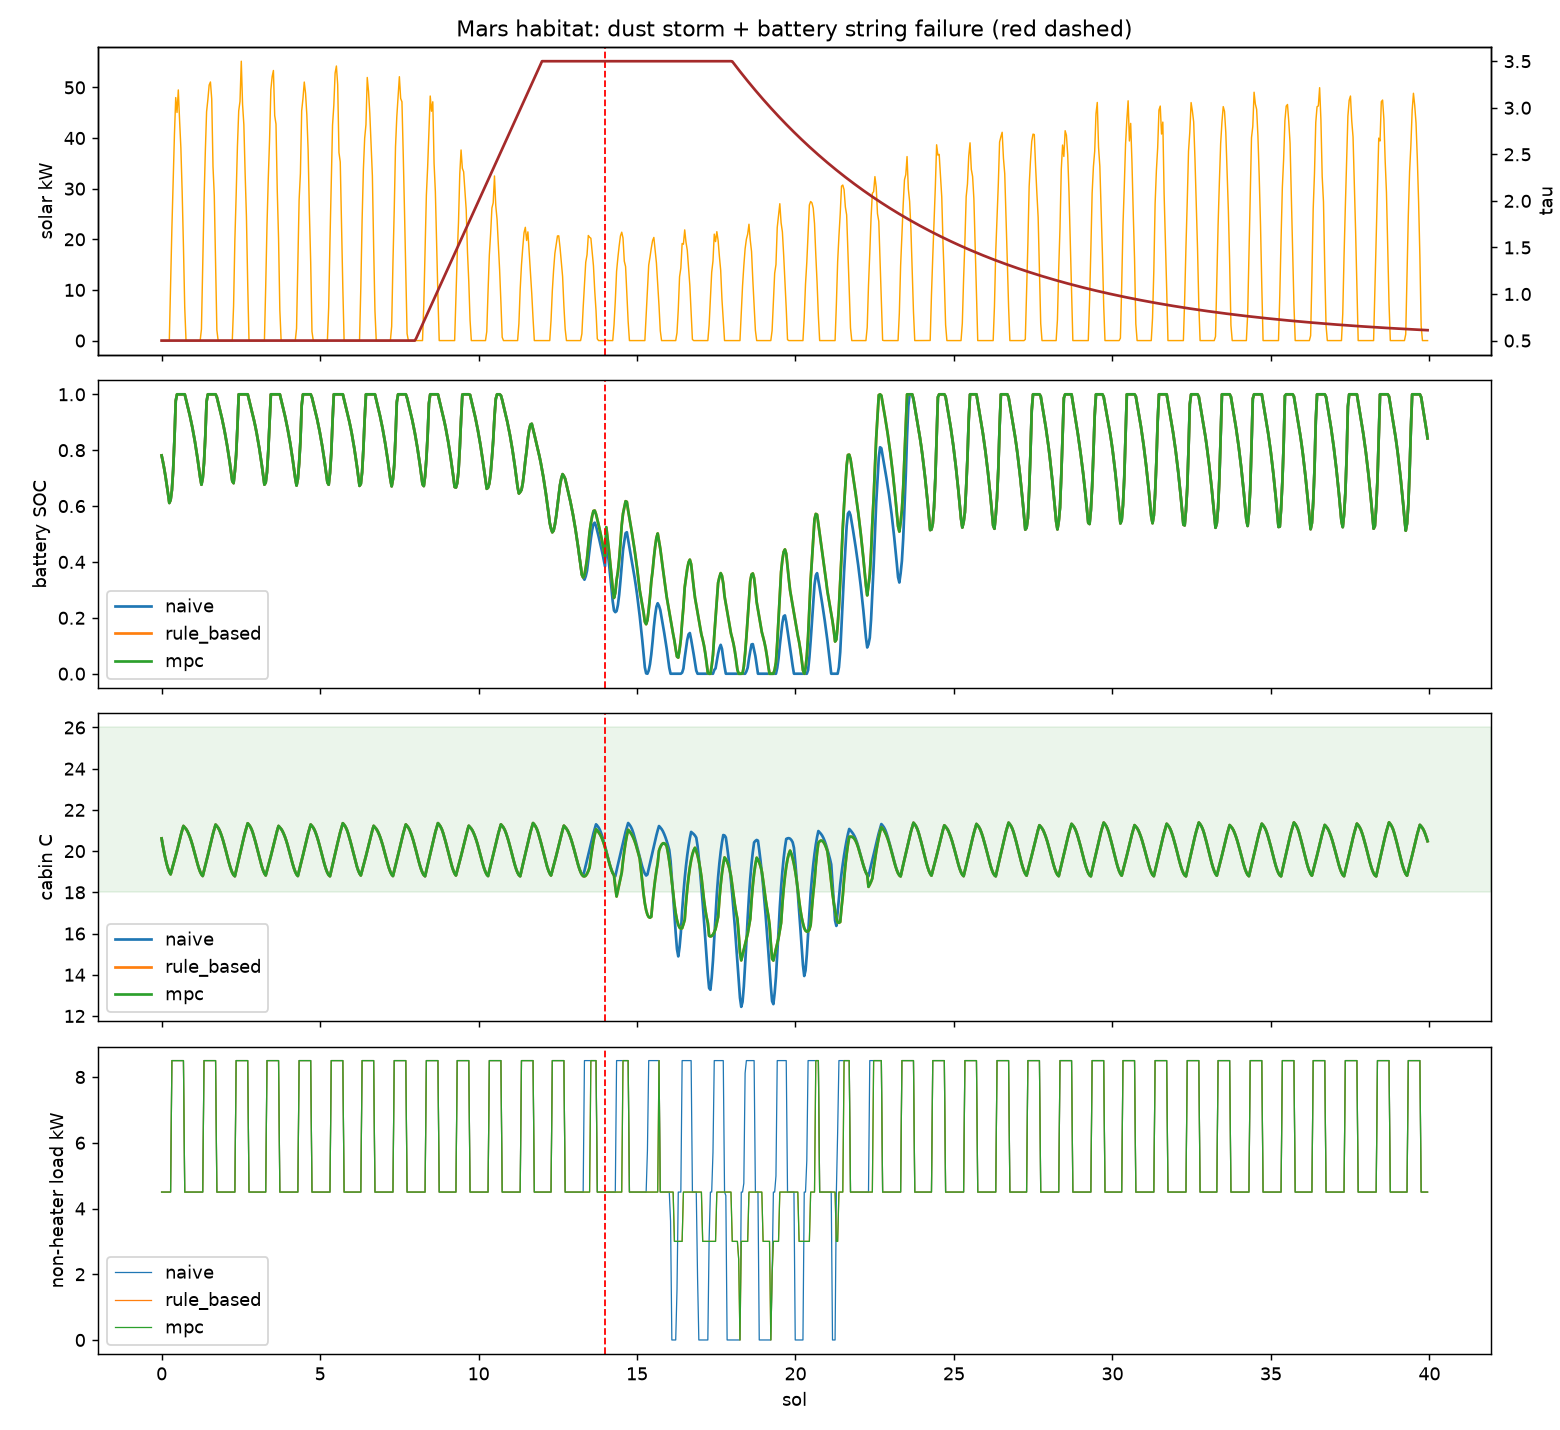
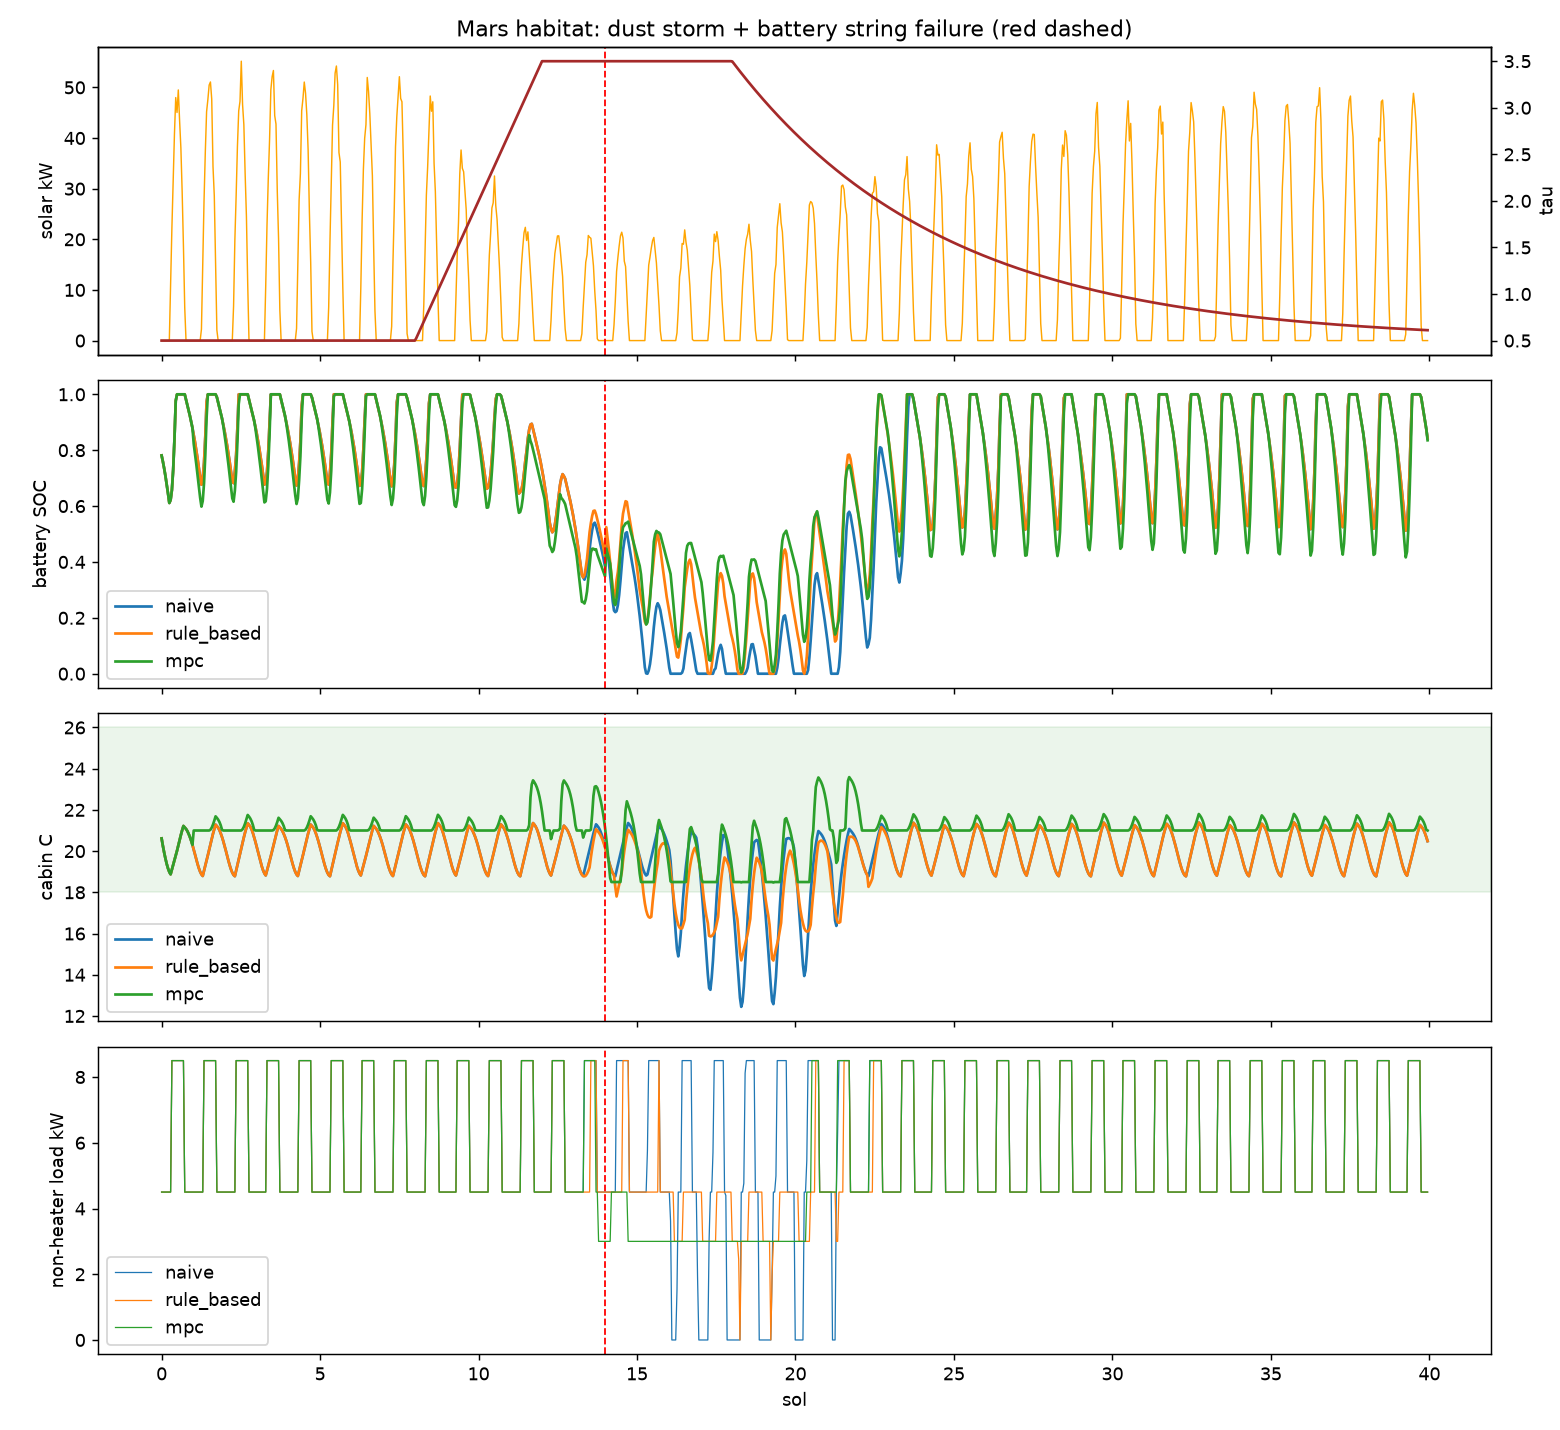
Pass wall temperature state to controllers

diff --git a/habitat/simulator.py b/habitat/simulator.py
@@ -51,7 +51,7 @@ def simulate(scen: Scenario, make_controller):
         window = scen.loads.deferrable_hours[0] <= local < scen.loads.deferrable_hours[1]
 
         obs = dict(t_h=t[k], sol=sol, local_h=local, soc=batt.soc, E_kwh=batt.E,
-                   cap_kwh=batt.capacity_kwh, T_cabin=x[0], T_amb=T_amb[k],
+                   cap_kwh=batt.capacity_kwh, T_cabin=x[0], T_state=x.copy(), T_amb=T_amb[k],
                    gen_hist_t=t[:k], gen_hist_kw=gen[:k], storm_flag=storm_flag,
                    deferrable_window=window)
         a = ctrl.decide(obs)
